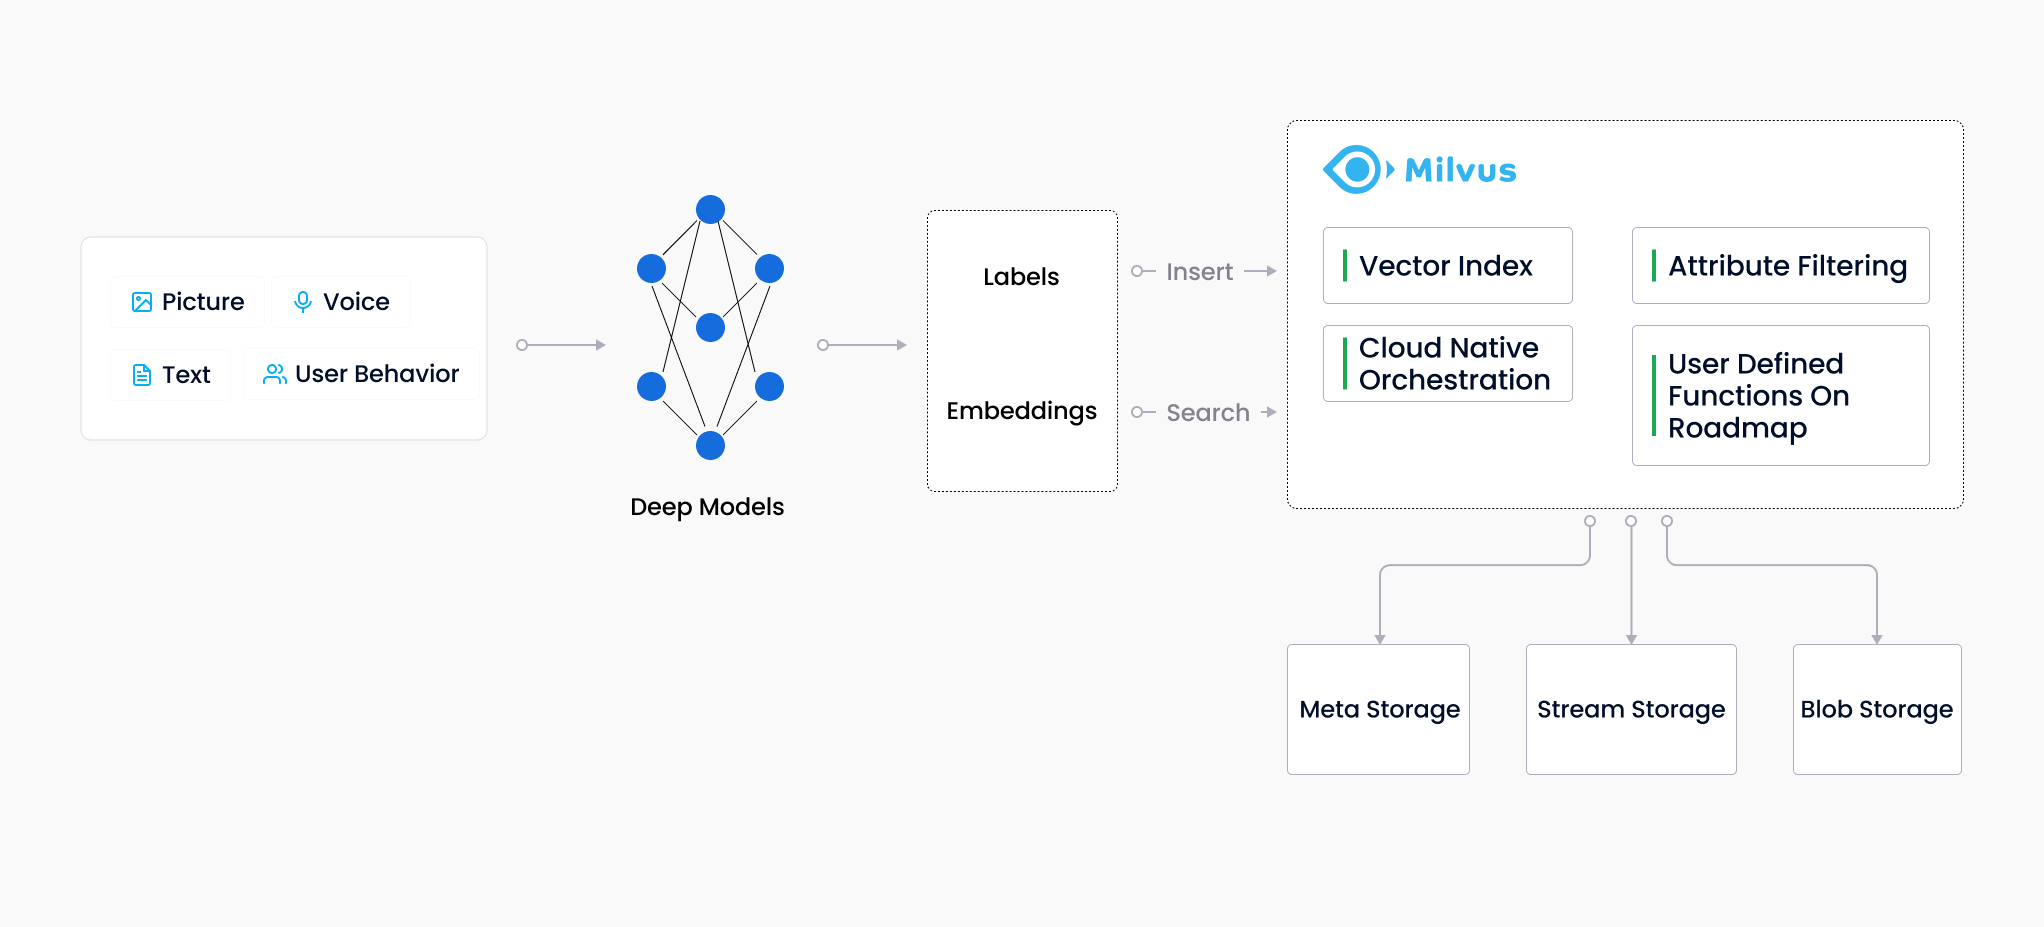
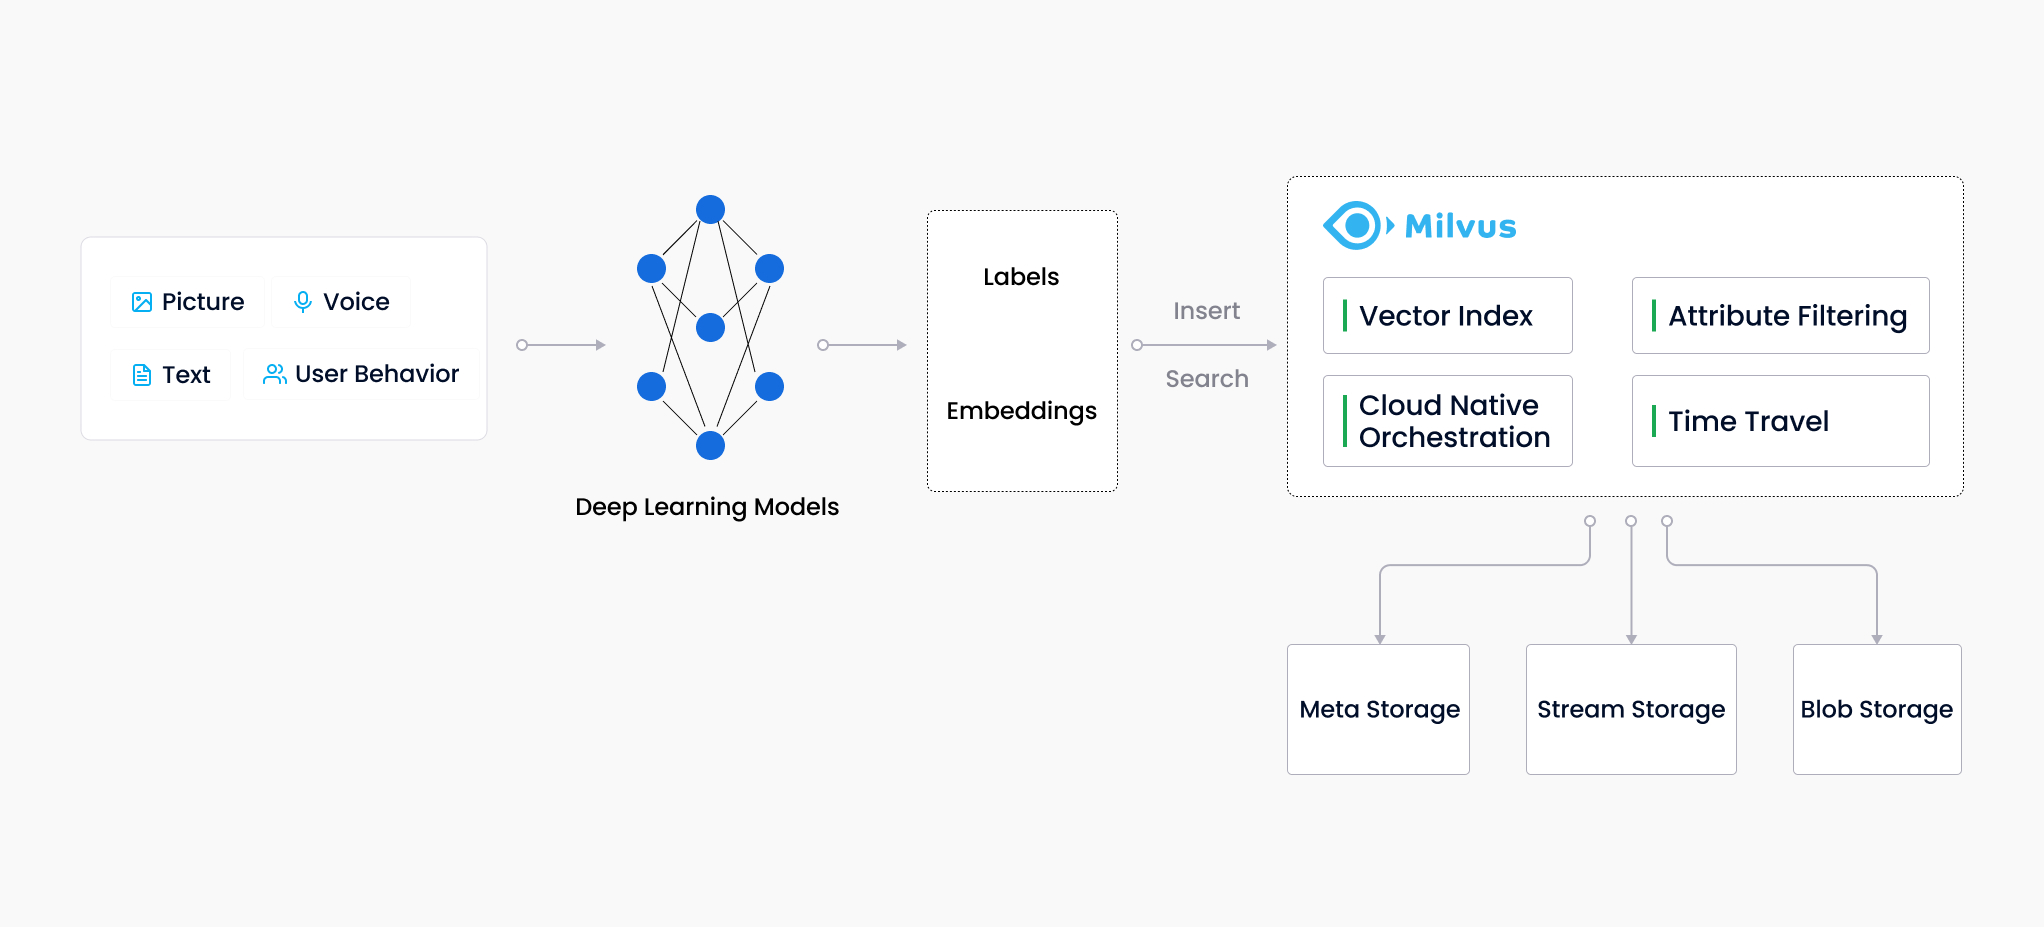
Update  (#1534)
* Fix typo in title_create a partition (#1510)

* add etcd issues to troubleshooting (CN) (#1512)

* Add etcd issues to troubleshooting (#1511)

* Fix broken links

* Change heading hierarchy for better display

* Update check_partition.md (#1517)

* Update check_partition.md

* Update check_partition.md

* 'What's next' universal changes

* Update what's next

* Make fragment for API reference in What's next section.

* Update install_cluster-ansible.md (#1520)

* Add a fragment for API references section

* Minor fix (#1521)

* Update metric.md (#1524)

Revised the explanation of superstructure and substructure.

* Menu updates: removes dupe Attu overview page

* Corrects wrong link to schema.md

* Update visualize.md (#1527)

Update link

* Update Milvus workflow diagram

* Fix broken link in install-pymilvus.md (#1530)

* update homepage tag

* fix cn

diff --git a/site/en/reference/metric.md b/site/en/reference/metric.md
@@ -128,7 +128,7 @@ For example, suppose there are two strings, 1101 1001 and 1001 1101.
 
 ### Superstructure
 
-The Superstructure is used to measure the similarity of a chemical structure and its superstructure. The less the value, the more similar the structure is to its superstructure. Only the vectors whose distance equals to 0 can be found now.
+The Superstructure is used to measure the similarity of a chemical structure and its superstructure. When the value equals 0, this means the chemical structure in the database is the superstructure of the target chemical structure.
 
 Superstructure similarity can be measured by:
 
@@ -143,7 +143,7 @@ Where
 
 ### Substructure
 
-The Substructure is used to measure the similarity of a chemical structure and its substructure. The less the value, the more similar the structure is to its substructure. Only the vectors whose distance equals to 0 can be found now.
+The Substructure is used to measure the similarity of a chemical structure and its substructure. When the value equals 0, this means the chemical structure in the database is the substructure of the target chemical structure.
 
 Substructure similarity can be measured by:
 

diff --git a/site/en/getstarted/cluster/install_cluster-milvusoperator.md b/site/en/getstarted/cluster/install_cluster-milvusoperator.md
@@ -510,15 +510,17 @@ Having installed Milvus, you can:
 - Check [Hello Milvus](example_code.md) to run an example code with different SDKs to see what Milvus can do.
 - Learn the basic operations of Milvus:
   - [Connect to Milvus server](manage_connection.md)
+  - [Create a collection](create_collection.md)
+  - [Create a partition](create_partition.md)
+  - [Insert data](insert_data.md)
   - [Conduct a vector search](search.md)
-  - [Conduct a hybrid search](hybridsearch.md)
-- [Upgrade Milvus Using Helm Chart](upgrade.md).
-- [Scale your Milvus cluster](scaleout.md).
+- [Upgrade Milvus Using Helm Chart](upgrade.md)
+- [Scale your Milvus cluster](scaleout.md)
 - Deploy your Milvu cluster on clouds:
   - [Amazon EC2](aws.md)
   - [Amazon EKS](eks.md)
 - Explore [MilvusDM](migrate_overview.md), an open-source tool designed for importing and exporting data in Milvus.
-- [Monitor Milvus with Prometheus](monitor.md).
+- [Monitor Milvus with Prometheus](monitor.md)
 
 
   

diff --git a/site/en/reference/boolean.md b/site/en/reference/boolean.md
@@ -7,7 +7,7 @@ summary: Learn about boolean expression rules in Milvus.
 
 ## Overview
 
-A predicate expression outputs a boolean value. Milvus conducts scalar filtering by searching with predicates. A predicate expression, when evaluated, returns either TRUE or FALSE. View [Python SDK API Reference](/api-reference/pymilvus/v{{var.milvus_python_sdk_version}}/api/collection.html) for instruction on using predicate expressions.
+A predicate expression outputs a boolean value. Milvus conducts scalar filtering by searching with predicates. A predicate expression, when evaluated, returns either TRUE or FALSE. View [Python SDK API Reference](/api-reference/pymilvus/v{{var.milvus_python_sdk_version}}/collection/query().html) for instruction on using predicate expressions.
 
 [EBNF](https://en.wikipedia.org/wiki/Extended_Backus%E2%80%93Naur_form) grammar rules describe boolean expressions rules:
 

diff --git a/site/en/getstarted/install_SDKs/install-node.md b/site/en/getstarted/install_SDKs/install-node.md
@@ -33,8 +33,10 @@ Having installed Milvus Node.js SDK, you can:
 
 - Learn the basic operations of Milvus:
   - [Connect to Milvus server](manage_connection.md)
+  - [Create a collection](create_collection.md)
+  - [Create a partition](create_partition.md)
+  - [Insert data](insert_data.md)
   - [Conduct a vector search](search.md)
-  - [Conduct a hybrid search](hybridsearch.md)
 
-- Explore [Milvus Node.js API reference](/api-reference/node/v{{var.milvus_node_sdk_version}}/tutorial.html)
+- Explore [Milvus Node.js API reference](/api-reference/node/v{{var.milvus_node_sdk_version}}/About.html)
 

diff --git a/site/en/getstarted/install_SDKs/install-pymilvus.md b/site/en/getstarted/install_SDKs/install-pymilvus.md
@@ -48,7 +48,9 @@ Having installed PyMilvus, you can:
 
 - Learn the basic operations of Milvus:
   - [Connect to Milvus server](manage_connection.md)
+  - [Create a collection](create_collection.md)
+  - [Create a partition](create_partition.md)
+  - [Insert data](insert_data.md)
   - [Conduct a vector search](search.md)
-  - [Conduct a hybrid search](hybridsearch.md)
 
-- Explore [PyMilvus API reference](/api-reference/pymilvus/v{{var.milvus_python_sdk_version}}/tutorial.html)
+- Explore [PyMilvus API reference](/api-reference/pymilvus/v{{var.milvus_python_sdk_version}}/About.md)

diff --git a/site/en/getstarted/standalone/install_standalone-helm.md b/site/en/getstarted/standalone/install_standalone-helm.md
@@ -127,8 +127,10 @@ Having installed Milvus, you can:
 
 - Learn the basic operations of Milvus:
   - [Connect to Milvus server](manage_connection.md)
+  - [Create a collection](create_collection.md)
+  - [Create a partition](create_partition.md)
+  - [Insert data](insert_data.md)
   - [Conduct a vector search](search.md)
-  - [Conduct a hybrid search](hybridsearch.md)
 
 - [Upgrade Milvus Using Helm Chart](upgrade.md).
 - Explore [MilvusDM](migrate_overview.md), an open-source tool designed for importing and exporting data in Milvus.

diff --git a/site/zh-CN/getstarted/cluster/install_cluster-ansible.md b/site/zh-CN/getstarted/cluster/install_cluster-ansible.md
@@ -332,8 +332,10 @@ Having installed Milvus, you can:
 
 - Learn the basic operations of Milvus:
   - [Connect to Milvus server](manage_connection.md)
+  - [Create a collection](create_collection.md)
+  - [Create a partition](create_partition.md)
+  - [Insert data](insert_data.md)
   - [Conduct a vector search](search.md)
-  - [Conduct a hybrid search](hybridsearch.md)
 
 - Explore [MilvusDM](migrate_overview.md), an open-source tool designed for importing and exporting data in Milvus.
 - [Monitor Milvus with Prometheus](monitor.md).

diff --git a/site/en/getstarted/cluster/install_cluster-docker.md b/site/en/getstarted/cluster/install_cluster-docker.md
@@ -80,8 +80,10 @@ Having installed Milvus, you can:
 
 - Learn the basic operations of Milvus:
   - [Connect to Milvus server](manage_connection.md)
+  - [Create a collection](create_collection.md)
+  - [Create a partition](create_partition.md)
+  - [Insert data](insert_data.md)
   - [Conduct a vector search](search.md)
-  - [Conduct a hybrid search](hybridsearch.md)
 
 - Explore [MilvusDM](migrate_overview.md), an open-source tool designed for importing and exporting data in Milvus.
 - [Monitor Milvus with Prometheus](monitor.md).

diff --git a/site/en/getstarted/standalone/install_standalone-aptyum.md b/site/en/getstarted/standalone/install_standalone-aptyum.md
@@ -70,8 +70,10 @@ Having installed Milvus, you can:
 
 - Learn the basic operations of Milvus:
   - [Connect to Milvus server](manage_connection.md)
+  - [Create a collection](create_collection.md)
+  - [Create a partition](create_partition.md)
+  - [Insert data](insert_data.md)
   - [Conduct a vector search](search.md)
-  - [Conduct a hybrid search](hybridsearch.md)
 
 - Explore [MilvusDM](migrate_overview.md), an open-source tool designed for importing and exporting data in Milvus.
 - [Monitor Milvus with Prometheus](monitor.md).

diff --git a/site/en/getstarted/standalone/install_standalone-docker.md b/site/en/getstarted/standalone/install_standalone-docker.md
@@ -70,8 +70,10 @@ Having installed Milvus, you can:
 
 - Learn the basic operations of Milvus:
   - [Connect to Milvus server](manage_connection.md)
+  - [Create a collection](create_collection.md)
+  - [Create a partition](create_partition.md)
+  - [Insert data](insert_data.md)
   - [Conduct a vector search](search.md)
-  - [Conduct a hybrid search](hybridsearch.md)
 
 - Explore [MilvusDM](migrate_overview.md), an open-source tool designed for importing and exporting data in Milvus.
 - [Monitor Milvus with Prometheus](monitor.md).

diff --git a/site/zh-CN/getstarted/standalone/install_standalone-aptyum.md b/site/zh-CN/getstarted/standalone/install_standalone-aptyum.md
@@ -80,8 +80,10 @@ Having installed Milvus, you can:
 
 - Learn the basic operations of Milvus:
   - [Connect to Milvus server](manage_connection.md)
+  - [Create a collection](create_collection.md)
+  - [Create a partition](create_partition.md)
+  - [Insert data](insert_data.md)
   - [Conduct a vector search](search.md)
-  - [Conduct a hybrid search](hybridsearch.md)
 
 - Explore [MilvusDM](migrate_overview.md), an open-source tool designed for importing and exporting data in Milvus.
 - [Monitor Milvus with Prometheus](monitor.md).

diff --git a/site/en/getstarted/offline/install_offline-docker.md b/site/en/getstarted/offline/install_offline-docker.md
@@ -83,8 +83,10 @@ Having installed Milvus, you can:
 
 - Learn the basic operations of Milvus:
   - [Connect to Milvus server](manage_connection.md)
+  - [Create a collection](create_collection.md)
+  - [Create a partition](create_partition.md)
+  - [Insert data](insert_data.md)
   - [Conduct a vector search](search.md)
-  - [Conduct a hybrid search](hybridsearch.md)
 
 - [Scale your Milvus cluster](scaleout.md).
 - Explore [MilvusDM](migrate_overview.md), an open-source tool designed for importing and exporting data in Milvus.
